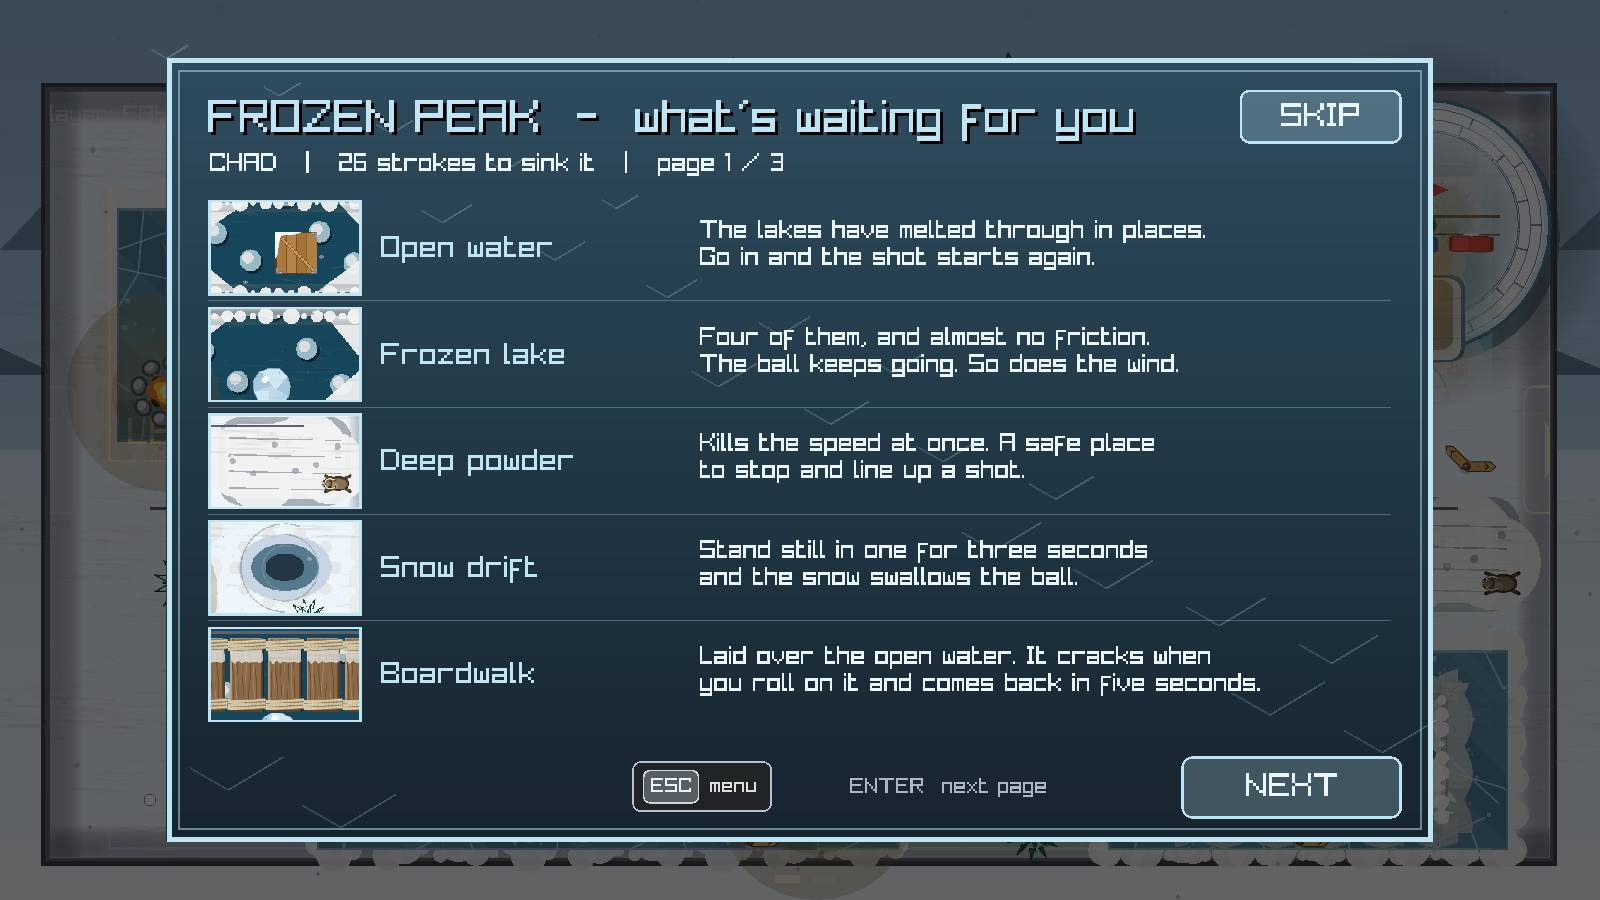
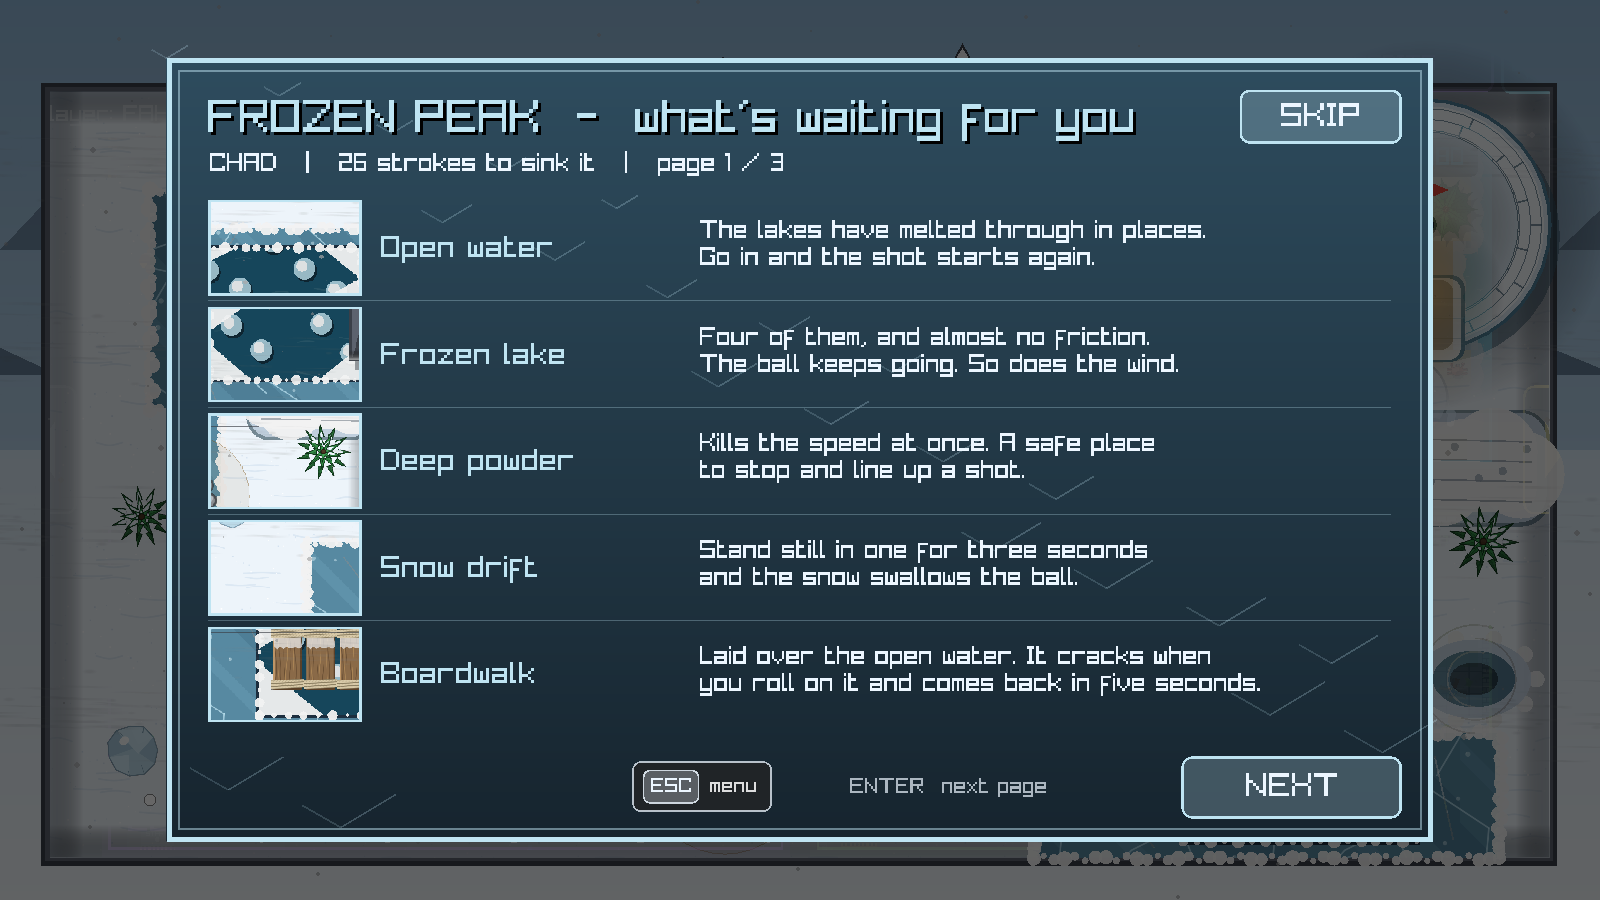
Clean up Frozen Peak: fewer things, further apart, drawn with fewer rings
The basin was right but it was cluttered. Two of the lakes overlapped each
other, so their shores piled up into a heap of white lumps in the middle of
the course, and there were three lines of flags, five signposts, three
campfires haloed in orange and a cable strung from one side of the world to
the other.

Spread out
- The four lakes are set well apart with open snow between every pair. None
  of them touch any more.
- Each lake has exactly one hole in it, well inside its own shore.
- The two boardwalks sit in the middle of the holes they cross, so you can
  see the water you are putting over on both sides.

Taken out
- Three flag lines down to two, five signposts down to the two places you
  actually have to choose, three crates to two, four boulders to three, and
  the third ibex and the spare rock outcrop are gone.

Drawn with fewer rings
- A lake was a pale rectangle, then a white band, then the ice, then another
  white band, then the water: five edges. It is now the ice sheet with a worn
  shore heaped over it, and the hole inside it. Two edges.
- A campfire was two stacked orange discs washing over the snow. It is now a
  thin ring at exactly the distance it melts back to grip, which is the thing
  you need to know, plus a little warmth in the middle.
- The gondola cable runs between its pylons instead of off both sides of the
  screen, and the flag string is thinner.
- The powder banks have a blue edge, so a bank of snow is not a white cloud
  on a white field.
[…]

diff --git a/src/levels/level5_frozen_peak.c b/src/levels/level5_frozen_peak.c
@@ -183,27 +183,27 @@ void l5_reset_level()
     l5_snow_ground[0] = l5_make_rect(60,110,1800,920);
     for (int i=1; i<9; i++) l5_snow_ground[i] = l5_make_rect(-400,-400,10,10);
 
-    //the four lakes. Black ice: it carries you, but it will not let you stop.
-    l5_black_ice[0] = l5_make_rect(380,680,700,340);      //the long lake, by the camp
-    l5_black_ice[1] = l5_make_rect(900,520,620,300);      //the middle lake
-    l5_black_ice[2] = l5_make_rect(140,250,560,280);      //the north lake
-    l5_black_ice[3] = l5_make_rect(1330,780,480,240);     //the east lake
+    //the four lakes. Black ice: it carries you, but it will not let you stop. They are
+    //set well apart, with open snow between every pair, so each one is its own problem.
+    l5_black_ice[0] = l5_make_rect(300,700,620,300);      //the long lake, by the camp
+    l5_black_ice[1] = l5_make_rect(1060,520,560,260);     //the middle lake
+    l5_black_ice[2] = l5_make_rect(180,230,520,260);      //the north lake
+    l5_black_ice[3] = l5_make_rect(1240,880,560,150);     //the east lake
 
     //the open water in them. This is the only thing on the level that can swallow a shot
     //outright, and all four are plainly visible.
-    l5_water[0] = l5_make_rect(470,734,430,240);
-    l5_water[1] = l5_make_rect(930,576,520,200);
-    l5_water[2] = l5_make_rect(250,330,300,160);
-    l5_water[3] = l5_make_rect(1430,840,300,140);
+    l5_water[0] = l5_make_rect(440,760,380,200);
+    l5_water[1] = l5_make_rect(1150,560,390,180);
+    l5_water[2] = l5_make_rect(300,300,260,130);
+    l5_water[3] = l5_make_rect(1420,910,280,100);
 
     //the mountain: a rock massif in the middle of the basin that you go round, either
     //along the lakes to the south or over the north shore
-    l5_rock_wall[0] = l5_make_rect(700,150,480,240);
-    l5_rock_wall[1] = l5_make_rect(1120,220,260,180);
-    l5_rock_wall[2] = l5_make_rect(560,260,200,150);
-    //two outcrops out on the flat, to break up the open snow
-    l5_rock_wall[3] = l5_make_rect(1180,120,120,110);
-    l5_rock_wall[4] = l5_make_rect(820,840,150,120);
+    l5_rock_wall[0] = l5_make_rect(680,150,500,250);
+    l5_rock_wall[1] = l5_make_rect(1180,210,240,190);
+    l5_rock_wall[2] = l5_make_rect(520,250,160,150);
+    l5_rock_wall[3] = l5_make_rect(1120,110,140,110);
+    l5_rock_wall[4] = l5_make_rect(-900,-900,10,10);
 
     //the igloo, built against the north-east corner. The door faces south, so the last
     //shot has to come up and in.
@@ -214,18 +214,19 @@ void l5_reset_level()
     l5_igloo[4] = l5_make_rect(1750,340,110,40);          //south wall, east of the door
 
     //deep powder: the places you can stop dead
-    l5_powder[0] = l5_make_rect(300,120,200,130);
-    l5_powder[1] = l5_make_rect(1620,600,200,130);
-    l5_powder[2] = l5_make_rect(300,560,190,130);
+    //two banks of deep powder, each one a place worth aiming at
+    l5_powder[0] = l5_make_rect(280,120,190,110);
+    l5_powder[1] = l5_make_rect(1670,500,180,120);
+    l5_powder[2] = l5_make_rect(-900,-900,10,10);
 
     //two holes blown full of soft snow, out on the open field
-    l5_drift[0] = l5_make_rect(1120,860,170,120);
-    l5_drift[1] = l5_make_rect(1430,450,170,120);
+    l5_drift[0] = l5_make_rect(840,560,170,120);
+    l5_drift[1] = l5_make_rect(1690,760,160,110);
     l5_drift_timer = 0;
 
     //boardwalks over the two biggest leads, for anyone who would rather not go round
-    for (int i=0; i<5; i++) l5_plank[0][i] = l5_make_rect(520+i*66,776,66,150);
-    for (int i=0; i<7; i++) l5_plank[1][i] = l5_make_rect(980+i*60,614,60,124);
+    for (int i=0; i<5; i++) l5_plank[0][i] = l5_make_rect(480+i*60,802,60,120);
+    for (int i=0; i<7; i++) l5_plank[1][i] = l5_make_rect(1168+i*52,598,52,106);
     for (int b=0; b<2; b++)
     {
         for (int i=0; i<7; i++)
@@ -242,8 +243,8 @@ void l5_reset_level()
     l5_gondola_speed = 190*l5_u;
 
     //the snowball comes down the open south shore, growing as it rolls
-    l5_snowball_from = l5_make_point(1780,470);
-    l5_snowball_to = l5_make_point(240,470);
+    l5_snowball_from = l5_make_point(1820,460);
+    l5_snowball_to = l5_make_point(220,460);
     l5_snowball_small = 15*l5_u;
     l5_snowball_big = 40*l5_u;
     l5_snowball = l5_snowball_from;
@@ -253,9 +254,9 @@ void l5_reset_level()
     l5_shatter_timer = 0;
 
     //icicles hang off the south face of the mountain
-    l5_icicle[0] = l5_make_point(800,404);
-    l5_icicle[1] = l5_make_point(1000,404);
-    l5_icicle[2] = l5_make_point(1170,414);
+    l5_icicle[0] = l5_make_point(780,412);
+    l5_icicle[1] = l5_make_point(930,412);
+    l5_icicle[2] = l5_make_point(1080,412);
     for (int i=0; i<3; i++)
     {
         l5_icicle_state[i] = 0;
@@ -264,17 +265,17 @@ void l5_reset_level()
 
     //pines, in stands on the open snow
     l5_pine_radius = 40*l5_u;
-    l5_pine[0] = l5_make_point(220,700);
-    l5_pine[1] = l5_make_point(1240,1000);
-    l5_pine[2] = l5_make_point(1540,660);
-    l5_pine[3] = l5_make_point(960,480);
-    l5_pine[4] = l5_make_point(460,180);
+    l5_pine[0] = l5_make_point(170,620);
+    l5_pine[1] = l5_make_point(990,960);
+    l5_pine[2] = l5_make_point(1780,650);
+    l5_pine[3] = l5_make_point(840,500);
+    l5_pine[4] = l5_make_point(400,170);
 
     //campfires, out on the lakes: the only places on the ice where the ball has grip
-    l5_campfire_radius = 120*l5_u;
-    l5_campfire[0] = l5_make_point(980,960);
-    l5_campfire[1] = l5_make_point(1440,560);
-    l5_campfire[2] = l5_make_point(200,470);
+    l5_campfire_radius = 95*l5_u;
+    l5_campfire[0] = l5_make_point(870,930);
+    l5_campfire[1] = l5_make_point(1570,720);
+    l5_campfire[2] = l5_make_point(640,450);
 
     //the weather
     l5_wind_clock = 0;
@@ -290,50 +291,54 @@ void l5_reset_level()
 
     //ibex, pacing the open ground
     l5_ibex_radius = 24*l5_u;
-    l5_ibex[0] = l5_make_point(620,620);
-    l5_ibex_from[0] = 420*l5_u;
-    l5_ibex_to[0] = 900*l5_u;
+    l5_ibex[0] = l5_make_point(500,620);
+    l5_ibex_from[0] = 300*l5_u;
+    l5_ibex_to[0] = 760*l5_u;
     l5_ibex_speed[0] = 85*l5_u;
-    l5_ibex[1] = l5_make_point(1250,440);
-    l5_ibex_from[1] = 1100*l5_u;
-    l5_ibex_to[1] = 1520*l5_u;
+    l5_ibex[1] = l5_make_point(1300,450);
+    l5_ibex_from[1] = 1140*l5_u;
+    l5_ibex_to[1] = 1540*l5_u;
     l5_ibex_speed[1] = -95*l5_u;
-    l5_ibex[2] = l5_make_point(1620,700);
-    l5_ibex_from[2] = 1460*l5_u;
-    l5_ibex_to[2] = 1810*l5_u;
-    l5_ibex_speed[2] = 100*l5_u;
+    l5_ibex[2] = l5_make_point(-900,-900);
+    l5_ibex_from[2] = -900*l5_u;
+    l5_ibex_to[2] = -880*l5_u;
+    l5_ibex_speed[2] = 60*l5_u;
 
     //flag lines, where you can see them lean into the wind before you take the shot
-    l5_flagline[0] = l5_make_point(300,620);
-    l5_flagline_width[0] = 400*l5_u;
-    l5_flagline[1] = l5_make_point(880,460);
-    l5_flagline_width[1] = 400*l5_u;
-    l5_flagline[2] = l5_make_point(1400,260);
-    l5_flagline_width[2] = 400*l5_u;
+    //one line of flags on each side of the mountain: enough to read the wind, few
+    //enough that they are not strung across the whole basin
+    l5_flagline[0] = l5_make_point(240,560);
+    l5_flagline_width[0] = 300*l5_u;
+    l5_flagline[1] = l5_make_point(1420,330);
+    l5_flagline_width[1] = 300*l5_u;
+    l5_flagline[2] = l5_make_point(-900,-900);
+    l5_flagline_width[2] = 10*l5_u;
 
     //the toboggan runs across the east shore
-    l5_toboggan = l5_make_rect(1300,760,100,150);
-    l5_toboggan_from = 700*l5_u;
-    l5_toboggan_to = 940*l5_u;
+    l5_toboggan = l5_make_rect(1000,800,100,150);
+    l5_toboggan_from = 760*l5_u;
+    l5_toboggan_to = 980*l5_u;
     l5_toboggan_speed = 150*l5_u;
 
     //crates and boulders out on the snow
-    l5_crate[0] = l5_make_rect(640,560,76,76);
-    l5_crate[1] = l5_make_rect(240,180,76,76);
-    l5_crate[2] = l5_make_rect(1560,880,76,76);
+    l5_crate[0] = l5_make_rect(560,620,76,76);
+    l5_crate[1] = l5_make_rect(1480,180,76,76);
+    l5_crate[2] = l5_make_rect(-900,-900,10,10);
     l5_boulder_radius = 34*l5_u;
-    l5_boulder[0] = l5_make_point(400,440);
-    l5_boulder[1] = l5_make_point(1180,760);
-    l5_boulder[2] = l5_make_point(760,660);
-    l5_boulder[3] = l5_make_point(1360,540);
+    l5_boulder[0] = l5_make_point(160,900);
+    l5_boulder[1] = l5_make_point(1120,830);
+    l5_boulder[2] = l5_make_point(1540,440);
+    l5_boulder[3] = l5_make_point(-900,-900);
     for (int i=0; i<4; i++) l5_boulder_hit[i] = 0;
 
     //signposts, all pointing the way to the igloo
-    l5_sign[0] = l5_make_point(300,980); l5_sign_facing[0] = 1;
-    l5_sign[1] = l5_make_point(900,1010); l5_sign_facing[1] = 1;
-    l5_sign[2] = l5_make_point(1560,1010); l5_sign_facing[2] = 1;
-    l5_sign[3] = l5_make_point(1760,560); l5_sign_facing[3] = 1;
-    l5_sign[4] = l5_make_point(620,460); l5_sign_facing[4] = 1;
+    //two signposts, at the two places you have to choose: leaving the camp, and the
+    //fork under the mountain
+    l5_sign[0] = l5_make_point(250,1000); l5_sign_facing[0] = 1;
+    l5_sign[1] = l5_make_point(1010,420); l5_sign_facing[1] = 1;
+    l5_sign[2] = l5_make_point(-900,-900); l5_sign_facing[2] = 1;
+    l5_sign[3] = l5_make_point(-900,-900); l5_sign_facing[3] = 1;
+    l5_sign[4] = l5_make_point(-900,-900); l5_sign_facing[4] = 1;
     l5_drift_offset = 0;
 
     //the camp is in the south-west corner, the igloo in the north-east
@@ -776,7 +781,11 @@ void l5_update_ball(float dt)
         if (l5_bounce_off_circle(l5_boulder[i],l5_boulder_radius,1.3)) l5_boulder_hit[i] = 0.2;
     }
     for (int i=0; i<3; i++) l5_bounce_off_rectangle(l5_crate[i],Vector2Zero());
-    for (int i=0; i<5; i++) l5_bounce_off_rectangle(l5_rock_wall[i],Vector2Zero());
+    for (int i=0; i<5; i++)
+    {
+        if (l5_rock_wall[i].width<20*l5_u) continue;
+        l5_bounce_off_rectangle(l5_rock_wall[i],Vector2Zero());
+    }
     for (int i=0; i<5; i++) l5_bounce_off_rectangle(l5_igloo[i],Vector2Zero());
 
     //an ibex will shoulder the ball out of its way
@@ -905,24 +914,6 @@ void l5_draw_ground()
     for (int i=0; i<4; i++)
     {
         Rectangle r = l5_black_ice[i];
-        //the shore, where the ice has heaved up against the bank. The lumps are all
-        //different sizes and sit a little in or out, so a lake never looks like a box.
-        for (int k=0; k<34; k++)
-        {
-            float along = k/33.0;
-            float lump = (15 + 9*sin(k*1.7+i))*l5_u;
-            float wobble = 7*l5_u*cos(k*2.3+i*1.3);
-            DrawCircleV((Vector2){r.x+along*r.width,r.y+wobble},lump,Fade(WHITE,0.92));
-            DrawCircleV((Vector2){r.x+along*r.width,r.y+r.height-wobble},lump*0.92,Fade(WHITE,0.92));
-        }
-        for (int k=0; k<18; k++)
-        {
-            float along = k/17.0;
-            float lump = (15 + 8*cos(k*2.1+i))*l5_u;
-            float wobble = 7*l5_u*sin(k*1.9+i);
-            DrawCircleV((Vector2){r.x+wobble,r.y+along*r.height},lump,Fade(WHITE,0.92));
-            DrawCircleV((Vector2){r.x+r.width-wobble,r.y+along*r.height},lump*0.92,Fade(WHITE,0.92));
-        }
         l5_draw_ice(r);
         //cracks running across the sheet
         for (int k=0; k<5; k++)
@@ -933,7 +924,24 @@ void l5_draw_ground()
             float y2 = r.y + r.height*(0.8 + 0.12*cos(k*1.3));
             DrawLineEx((Vector2){x1,y1},(Vector2){x2,y2},2*l5_u,Fade(WHITE,0.35));
         }
-        DrawRectangleLinesEx(r,3*l5_u,Fade(l5_ice_light,0.65));
+        //the shore last, heaved up over the edge of the sheet, so the lake has a worn
+        //outline instead of four straight sides
+        for (int k=0; k<46; k++)
+        {
+            float along = k/45.0;
+            float lump = (7 + 3*sin(k*1.7+i))*l5_u;
+            float wobble = 3*l5_u*cos(k*2.3+i*1.3);
+            DrawCircleV((Vector2){r.x+along*r.width,r.y+wobble},lump,Fade(WHITE,0.95));
+            DrawCircleV((Vector2){r.x+along*r.width,r.y+r.height-wobble},lump*0.92,Fade(WHITE,0.95));
+        }
+        for (int k=0; k<26; k++)
+        {
+            float along = k/25.0;
+            float lump = (7 + 3*cos(k*2.1+i))*l5_u;
+            float wobble = 3*l5_u*sin(k*1.9+i);
+            DrawCircleV((Vector2){r.x+wobble,r.y+along*r.height},lump,Fade(WHITE,0.95));
+            DrawCircleV((Vector2){r.x+r.width-wobble,r.y+along*r.height},lump*0.92,Fade(WHITE,0.95));
+        }
     }
 
     //the open water in the lakes, and the broken floes round the edge of it
@@ -944,7 +952,7 @@ void l5_draw_ground()
     {
         Rectangle r = l5_water[i];
         //the dark of the water under the edge, so the hole reads as depth
-        DrawRectangle(r.x-8*l5_u,r.y-8*l5_u,r.width+16*l5_u,r.height+16*l5_u,l5_crevasse);
+        DrawRectangle(r.x-5*l5_u,r.y-5*l5_u,r.width+10*l5_u,r.height+10*l5_u,l5_crevasse);
         BeginScissorMode(r.x,r.y,r.width,r.height);
         int columns = r.width/(256*l5_u) + 2;
         int rows = r.height/(256*l5_u) + 2;
@@ -975,20 +983,18 @@ void l5_draw_ground()
         DrawTriangle((Vector2){r.x,r.y+r.height},(Vector2){r.x+r.width*0.26,r.y+r.height},(Vector2){r.x,r.y+r.height*0.55},Fade(WHITE,0.95));
         DrawTriangle((Vector2){r.x+r.width,r.y+r.height},(Vector2){r.x+r.width,r.y+r.height*0.46},(Vector2){r.x+r.width-r.width*0.34,r.y+r.height},Fade(WHITE,0.95));
         EndScissorMode();
-        l5_draw_foam(r,Fade(WHITE,0.7));
-        //the broken edge of the ice all the way round, in slabs of different sizes, so the
-        //hole has a torn edge instead of a drawn border
-        for (int k=0; k<16; k++)
+        //the broken edge the ice gave way along
+        for (int k=0; k<18; k++)
         {
-            float along = k/15.0;
-            float lump = (8 + 5*sin(k*2.7+i))*l5_u;
+            float along = k/17.0;
+            float lump = (6 + 3*sin(k*2.7+i))*l5_u;
             DrawCircleV((Vector2){r.x+along*r.width,r.y},lump,Fade(WHITE,0.95));
             DrawCircleV((Vector2){r.x+along*r.width,r.y+r.height},lump*0.9,Fade(WHITE,0.95));
         }
-        for (int k=0; k<9; k++)
+        for (int k=0; k<10; k++)
         {
-            float along = k/8.0;
-            float lump = (8 + 4*cos(k*2.1+i))*l5_u;
+            float along = k/9.0;
+            float lump = (6 + 3*cos(k*2.1+i))*l5_u;
             DrawCircleV((Vector2){r.x,r.y+along*r.height},lump,Fade(WHITE,0.95));
             DrawCircleV((Vector2){r.x+r.width,r.y+along*r.height},lump*0.9,Fade(WHITE,0.95));
         }
@@ -1000,8 +1006,10 @@ void l5_draw_ground()
     {
         Rectangle r = l5_powder[i];
         Vector2 middle = {r.x+r.width/2,r.y+r.height/2};
-        //the shadow it casts into the snow around it
-        DrawRectangleRounded((Rectangle){r.x-4*l5_u,r.y-4*l5_u,r.width+8*l5_u,r.height+8*l5_u},0.5,10,Fade(l5_snow_shade,0.45));
+        if (r.width<20*l5_u) continue;
+        //the shade it sits in, so the bank has an edge against the flat snow
+        DrawRectangleRounded((Rectangle){r.x-10*l5_u,r.y-8*l5_u,r.width+20*l5_u,r.height+20*l5_u},0.5,10,Fade(l5_ice,0.5));
+        DrawRectangleRounded((Rectangle){r.x-6*l5_u,r.y-5*l5_u,r.width+12*l5_u,r.height+12*l5_u},0.5,10,Fade(l5_snow_shade,0.95));
         //five heaped mounds across it, so the edge is lumpy
         for (int k=0; k<5; k++)
         {
@@ -1059,6 +1067,7 @@ void l5_draw_ground()
     for (int i=0; i<5; i++)
     {
         Rectangle r = l5_rock_wall[i];
+        if (r.width<20*l5_u) continue;
         int peaks = r.width/110*l5_u > 2 ? (int)(r.width/(110*l5_u)) : 2;
         if (peaks>6) peaks = 6;
         float step = r.width/peaks;
@@ -1173,8 +1182,11 @@ void l5_draw_obstacles()
     //campfires: a warm circle on the ice, then the fire itself
     for (int i=0; i<3; i++)
     {
-        DrawCircleV(l5_campfire[i],l5_campfire_radius,Fade(l5_warm,0.14));
-        DrawCircleV(l5_campfire[i],l5_campfire_radius*0.55,Fade(l5_warm,0.12));
+        //the patch it has melted back to grip. A thin edge and a little warmth in the
+        //middle: you need to see how far it reaches, not have it wash over the snow.
+        DrawCircleV(l5_campfire[i],l5_campfire_radius,Fade(l5_warm,0.05));
+        DrawCircleLines(l5_campfire[i].x,l5_campfire[i].y,l5_campfire_radius,Fade(l5_warm,0.28));
+        DrawCircleGradient(l5_campfire[i],l5_campfire_radius*0.34,Fade(l5_warm,0.12),BLANK);
         int frame = (int)(l5_animation_time*8)%4;
         Rectangle source = {frame*128,0,128,128};
         Rectangle dest = {l5_campfire[i].x,l5_campfire[i].y,90*l5_u,90*l5_u};
@@ -1183,7 +1195,7 @@ void l5_draw_obstacles()
     }
 
     //the gondola and its cable
-    DrawLineEx((Vector2){l5_gondola_left-120*l5_u,l5_gondola.y+10*l5_u},(Vector2){l5_gondola_right+270*l5_u,l5_gondola.y+10*l5_u},4*l5_u,l5_rock);
+    DrawLineEx((Vector2){l5_gondola_left-30*l5_u,l5_gondola.y+10*l5_u},(Vector2){l5_gondola_right+200*l5_u,l5_gondola.y+10*l5_u},2*l5_u,Fade(l5_rock,0.55));
     Rectangle gondola_source = {0,0,256,128};
     Rectangle gondola_dest = {l5_gondola.x,l5_gondola.y,l5_gondola.width,l5_gondola.height};
     DrawTexturePro(l5_gondola_texture,gondola_source,gondola_dest,no_origin,0,WHITE);
@@ -1314,7 +1326,7 @@ void l5_draw_weather()
     for (int i=0; i<3; i++)
     {
         float width = l5_flagline_width[i];
-        DrawLineEx(l5_flagline[i],(Vector2){l5_flagline[i].x+width,l5_flagline[i].y},3*l5_u,Fade(GetColor(0x6E5B42FF),0.9));
+        DrawLineEx(l5_flagline[i],(Vector2){l5_flagline[i].x+width,l5_flagline[i].y},2*l5_u,Fade(GetColor(0x6E5B42FF),0.55));
         int frame = (int)(l5_animation_time*6+i)%4;
         Rectangle source = {frame*256,0,256,256};
         Rectangle dest = {l5_flagline[i].x+width/2,l5_flagline[i].y+18*l5_u,width,110*l5_u};

diff --git a/tools/segment_test.c b/tools/segment_test.c
@@ -10,8 +10,8 @@
 static unsigned int sd = 2024;
 float rnd(void) { sd = sd*1103515245 + 12345; return ((sd>>16)&0x7fff)/32767.0f; }
 
-float way5[][2] = {{180,960},{420,980},{700,1000},{1000,1000},{1300,1000},{1600,1010},
-                   {1800,1000},{1810,820},{1800,640},{1770,500},{1710,430},{1710,300}};
+float way5[][2] = {{180,960},{220,780},{250,620},{520,600},{760,660},{1000,690},
+                   {1010,460},{1300,450},{1600,470},{1700,520},{1710,430},{1710,300}};
 float way6[][2] = {{150,940},{400,960},{670,930},{900,930},{1150,900},{1265,650},{1400,650},
                    {1600,620},{1620,556},{1620,460},{1500,460},{1265,470},{1100,470},
                    {900,300},{675,200},{560,180},{560,350},{560,460},{415,370},{300,430},{200,470}};
